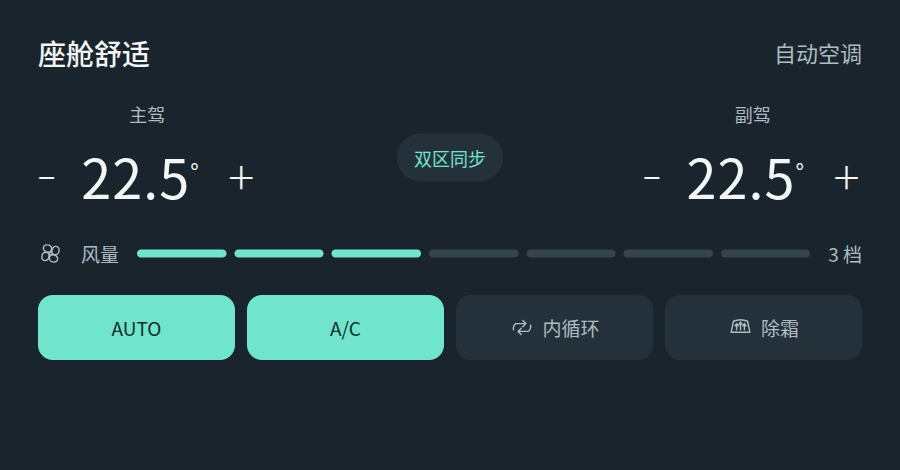
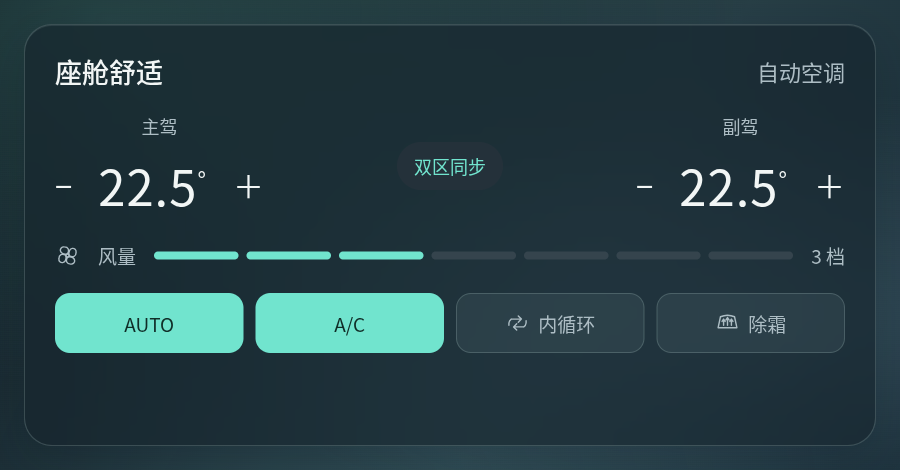
design: revise to glass cards and compact music dock without sidebar

diff --git a/design/study.js b/design/study.js
@@ -1,7 +1,6 @@
 /* Presentational design boards only. There are no vehicle or application integrations. */
 const icon = (name, cls = '') => `<svg class="icon ${cls}" aria-hidden="true"><use href="#${name}"/></svg>`;
 const params = new URLSearchParams(location.search);
-let selectedStyle = ['calm','warm','ice'].includes(params.get('style')) ? params.get('style') : 'calm';
 const art = `<svg viewBox="0 0 142 142" aria-hidden="true"><rect width="142" height="142" fill="#d3bd97"/><circle cx="108" cy="36" r="26" fill="#f6d59b"/><path d="M-10 88Q43 42 93 81T165 77V142H0" fill="#607f89"/><path d="M-10 105Q33 66 80 107T165 95V142H0" fill="#1f4a5d"/><path d="M-10 135Q55 92 155 132" fill="none" stroke="#d6dfd3" stroke-width="2"/><text x="12" y="24" font-family="sans-serif" font-size="10" fill="#244452" letter-spacing="2">COASTLINE</text></svg>`;
 const map = `<svg class="map" viewBox="0 0 1144 732" preserveAspectRatio="xMidYMid slice" aria-hidden="true">
   <rect class="block" x="-10" y="-10" width="1180" height="760"/>
@@ -16,39 +15,51 @@ const map = `<svg class="map" viewBox="0 0 1144 732" preserveAspectRatio="xMidYM
   <path d="m650 495 17 41-17-8-17 8Z" fill="var(--accent)"/>
 </svg>`;
 
+function dock() {
+  return `<div class="dock-lane"><div class="music-dock">
+    <div class="dock-navigation"><span class="dock-control dock-home" title="首页">${icon('home')}</span><span class="dock-apps">${icon('apps')}<span>全部应用</span></span></div>
+    <span class="dock-separator"></span>
+    <div class="dock-media"><div class="dock-track"><div class="cover">${art}</div><div class="dock-track-copy"><b>向海而行</b><p>Coastline · QQ 音乐</p></div></div><div class="dock-transport"><span class="dock-control" title="上一首">${icon('back')}</span><span class="dock-play" title="播放或暂停">${icon('pause')}</span><span class="dock-control" title="下一首">${icon('next')}</span></div></div>
+    <span class="dock-separator"></span>
+    <div class="dock-climate"><div class="dock-zone"><b>22.5<sup>°</sup></b><span>主驾</span></div><div class="dock-auto">${icon('fan')}<span>AUTO</span></div><div class="dock-zone"><b>22.5<sup>°</sup></b><span>副驾</span></div></div>
+    <span class="dock-separator"></span>
+    <div class="dock-vehicle"><span class="dock-control" title="车辆">${icon('car')}</span><span class="dock-control" title="360全景">${icon('camera')}</span></div>
+  </div></div>`;
+}
+
 function screen(theme) {
-  return `<div class="screen ${theme} ${selectedStyle}" role="img" aria-label="领克05 ${theme==='dark'?'深色':'浅色'}卡片式首页视觉稿，所有数据均为示意">
-    <div class="oem-status"><span>09:41</span><div class="status-right">${icon('bluetooth')}<span class="signal"><i></i><i></i><i></i><i></i></span><span>4G</span><span>LYNK & CO</span></div></div>
-    <div class="desktop">
-      <div class="desk-head"><div class="brand">LYNK & CO<i></i><span>05 / DRIVE</span></div><div class="greeting">${icon('cloud')}<span>24° 多云</span><i></i><span>10月24日 · 周六</span></div></div>
-      <div class="desk-content">
-        <div class="side-rail"><div class="rail-item active">${icon('home')}<span>首页</span></div><div class="rail-item">${icon('nav')}<span>导航</span></div><div class="rail-item">${icon('music')}<span>音乐</span></div><div class="rail-item">${icon('apps')}<span>应用</span></div></div>
-        <div class="nav-card">${map}<div class="direction-box"><div class="turn-icon">${icon('turn')}</div><div class="direction-copy"><b>600 米后右转</b><p>进入城市大道</p></div></div><div class="compass">N</div><div class="map-tool"><span>＋</span><span>−</span></div><div class="destination"><div><small>前往 · 城市中心</small><div class="arrival"><b>10:08 到达</b><span>27 分钟 · 12.6 公里</span></div></div><div class="dest-arrow">${icon('nav')}</div></div></div>
-        <div class="music-column"><div class="music-card"><div class="card-label"><span>正在播放</span><span class="source"><i class="source-dot"></i>QQ 音乐</span></div><div class="track"><div class="cover">${art}</div><div><b>向海而行</b><p>Coastline<br>晨间驾驶歌单</p></div></div><div class="music-progress"><div class="track-line"></div><div class="music-times"><span>00:46</span><span>04:18</span></div></div><div class="player-controls">${icon('heart')}<div class="transport">${icon('back')}<div class="pause-disc">${icon('pause')}</div>${icon('next')}</div><span class="loop">↻</span></div></div>
-        <div class="quick-card"><div class="card-label"><span>常用</span><span>···</span></div><div class="quick-items">${[['fan','空调'],['car','车辆'],['phone','电话'],['settings','设置']].map(([i,t])=>`<div class="quick-item"><span class="quick-icon">${icon(i)}</span><span>${t}</span></div>`).join('')}</div></div></div>
-      </div>
-    </div>
-    <div class="oem-bottom"><div class="oem-group"><span class="oem-item">${icon('car')}车辆</span><span class="oem-item">${icon('camera')}360°</span></div><span class="oem-divider"></span><div class="temp-inline"><span>−</span><b>22.5<sup>°</sup></b><span>＋</span></div><div class="oem-mode">${icon('fan')}<span class="mode-on">AUTO</span><span>A/C</span>${icon('recirc')}</div><div class="temp-inline"><span>−</span><b>22.5<sup>°</sup></b><span>＋</span></div><span class="oem-divider"></span><div class="oem-group">${icon('seat')}${icon('defrost')}</div></div>
+  return `<div class="screen ${theme} calm glass" role="img" aria-label="领克05 ${theme==='dark'?'深色':'浅色'}毛玻璃全宽首页与96像素音乐底栏视觉稿，所有数据均为示意">
+    <div class="oem-status"><div class="status-left"><b>09:41</b><span>LYNK & CO / 05</span></div><div class="status-right"><span class="status-weather">${icon('cloud')}24° 多云</span>${icon('bluetooth')}<span class="signal"><i></i><i></i><i></i><i></i></span><span>4G</span></div></div>
+    <div class="desktop"><div class="desk-content">
+      <div class="nav-card">${map}<div class="direction-box"><div class="turn-icon">${icon('turn')}</div><div class="direction-copy"><b>600 米后右转</b><p>进入城市大道</p></div></div><div class="compass">N</div><div class="map-tool"><span>＋</span><span>−</span></div><div class="destination"><div><small>前往 · 城市中心</small><div class="arrival"><b>10:08 到达</b><span>27 分钟 · 12.6 公里</span></div></div><div class="dest-arrow">${icon('nav')}</div></div></div>
+      <div class="music-column"><div class="music-card"><div class="card-label"><span>正在播放</span><span class="source"><i class="source-dot"></i>QQ 音乐</span></div><div class="listening"><div class="cover hero-cover">${art}</div><h3>向海而行</h3><p>Coastline · 晨间驾驶歌单</p><div class="music-progress"><div class="track-line"></div><div class="music-times"><span>00:46</span><span>04:18</span></div></div><div class="listening-note"><span>播放队列 · 12 首</span>${icon('heart')}</div></div></div>
+      <div class="quick-card"><div class="card-label"><span>常用</span><span>···</span></div><div class="quick-items">${[['nav','导航'],['fan','空调'],['phone','电话'],['settings','设置']].map(([i,t])=>`<div class="quick-item"><span class="quick-icon">${icon(i)}</span><span>${t}</span></div>`).join('')}</div></div></div>
+    </div></div>
+    ${dock()}
   </div>`;
 }
 
+function dockStudy(theme) {
+  return `<div class="screen dock-study ${theme} calm glass" role="img" aria-label="${theme==='dark'?'深色':'浅色'}96像素毛玻璃音乐底栏，包含全部应用、歌曲信息和播放控制"><span class="dock-mini-label">${theme==='dark'?'NIGHT / 深色音乐底栏':'DAY / 浅色音乐底栏'}</span>${dock()}</div>`;
+}
+
 function climate(theme) {
-  return `<div class="climate-panel screen ${theme} ${selectedStyle}" role="img" aria-label="${theme==='dark'?'深色':'浅色'}双区空调卡片视觉稿">
+  return `<div class="climate-panel screen ${theme} calm glass" role="img" aria-label="${theme==='dark'?'深色':'浅色'}双区空调毛玻璃卡片视觉稿"><div class="climate-glass">
     <div class="climate-heading"><strong>座舱舒适</strong><span>自动空调</span></div>
     <div class="climate-zones"><div class="zone"><div class="zone-label">主驾</div><div class="zone-value"><span>−</span><b>22.5<sup>°</sup></b><span>＋</span></div></div><span class="sync">双区同步</span><div class="zone"><div class="zone-label">副驾</div><div class="zone-value"><span>−</span><b>22.5<sup>°</sup></b><span>＋</span></div></div></div>
     <div class="fan-level">${icon('fan')}<span>风量</span><div class="fan-track">${Array.from({length:7},(_,i)=>`<i class="${i<3?'on':''}"></i>`).join('')}</div><span>3 档</span></div>
     <div class="climate-modes"><div class="climate-mode active">AUTO</div><div class="climate-mode active">A/C</div><div class="climate-mode">${icon('recirc')}内循环</div><div class="climate-mode">${icon('defrost')}除霜</div></div>
-  </div>`;
+  </div></div>`;
 }
 
 function resize() {
   document.querySelectorAll('.screen-wrap').forEach(el=>{el.firstElementChild.style.transform=`scale(${el.clientWidth/1920})`;});
   document.querySelectorAll('.climate-wrap').forEach(el=>{el.firstElementChild.style.transform=`scale(${el.clientWidth/900})`;});
+  document.querySelectorAll('.dock-wrap').forEach(el=>{el.firstElementChild.style.transform=`scale(${el.clientWidth/1920})`;});
 }
 function render() {
-  document.querySelectorAll('[data-style]').forEach(el=>{const chosen=el.dataset.style===selectedStyle;el.classList.toggle('chosen',chosen);el.setAttribute('aria-pressed',String(chosen));});
-  document.querySelector('.spec-grid strong').textContent=selectedStyle==='warm'?'32 px':selectedStyle==='ice'?'18 px':'28 px';
-  document.getElementById('screens').innerHTML=['dark','light'].map(theme=>`<figure class="screen-figure"><figcaption class="screen-caption"><b>${theme==='dark'?'夜航 / NIGHT':'晨光 / DAY'}</b><span>1920 × 1080 · 视觉设计稿</span></figcaption><div class="screen-wrap">${screen(theme)}</div></figure>`).join('');
+  document.getElementById('screens').innerHTML=['dark','light'].map(theme=>`<figure class="screen-figure"><figcaption class="screen-caption"><b>${theme==='dark'?'夜航 / NIGHT':'晨光 / DAY'}</b><span>V02 · 毛玻璃 / 全宽卡片 / 音乐底栏</span></figcaption><div class="screen-wrap">${screen(theme)}</div></figure>`).join('');
+  document.getElementById('dock-studies').innerHTML=['dark','light'].map(theme=>`<div class="dock-wrap">${dockStudy(theme)}</div>`).join('');
   document.getElementById('climate-studies').innerHTML=['dark','light'].map(theme=>`<figure class="climate-figure"><figcaption>${theme==='dark'?'深色空调层':'浅色空调层'}</figcaption><div class="climate-wrap">${climate(theme)}</div></figure>`).join('');
   const view=params.get('view');
   if(view==='single'||view==='component') {
@@ -56,16 +67,13 @@ function render() {
     if(view==='component')document.body.classList.add('component');
     document.getElementById('single-screen').innerHTML=view==='component'?climate(params.get('theme')==='light'?'light':'dark'):screen(params.get('theme')==='light'?'light':'dark');
   }
-  if(view==='pair')document.body.classList.add('pair');
-  if(view==='directions') {
-    document.body.classList.add('directions-view');
-    const original=selectedStyle;
-    document.getElementById('single-screen').innerHTML=`<div class="comparison-head"><span>LYNK 05 / VISUAL DIRECTIONS</span><h1>三种气质，同一套卡片秩序。</h1><p>视觉风格对比 · 所有画面均为设计示意</p></div><div class="comparison-grid">${[['calm','A · 冷灰青绿','推荐 / 克制的科技感'],['warm','B · 暖白石墨','温润 / 更柔和的座舱感'],['ice','C · 石墨冰蓝','利落 / 更鲜明的运动感']].map(([style,title,note])=>{selectedStyle=style;return `<section class="comparison-column"><h2>${title}</h2><p>${note}</p><div class="screen-wrap">${screen('dark')}</div><div class="screen-wrap">${screen('light')}</div></section>`;}).join('')}</div>`;
-    selectedStyle=original;
+  if(view==='pair'||view==='directions')document.body.classList.add('pair');
+  if(view==='dock') {
+    document.body.classList.add('dock-only');
+    document.getElementById('single-screen').innerHTML=dockStudy('dark')+dockStudy('light');
   }
   requestAnimationFrame(resize);
 }
-document.querySelectorAll('[data-style]').forEach(el=>el.addEventListener('click',()=>{selectedStyle=el.dataset.style;const url=new URL(location.href);url.searchParams.set('style',selectedStyle);history.replaceState(null,'',url);render();}));
 window.addEventListener('resize',resize);
 new ResizeObserver(resize).observe(document.querySelector('.board'));
 render();

diff --git a/design/glass.css b/design/glass.css
@@ -1,0 +1,153 @@
+/* V02 visual study. Browser filters illustrate the material, not Android 9 APIs. */
+.decisions { display: grid; grid-template-columns: repeat(3, 1fr); gap: 24px; margin: 40px 0 72px; }
+.decisions > div { padding: 22px 0; border-top: 1px solid #c3d1c9; }
+.decisions span { font-size: 12px; letter-spacing: 1px; color: #658075; }
+.decisions strong { display: block; margin: 14px 0 10px; font-size: 22px; font-weight: 500; }
+.decisions p { font-size: 13px; margin: 0; color: #657e72; }
+.screen.glass {
+  grid-template-rows: 64px 904px 112px;
+  --glass: rgba(22, 35, 43, .63);
+  --glass-strong: rgba(25, 39, 48, .80);
+  --glass-soft: rgba(179, 217, 217, .08);
+  --glass-edge: rgba(224, 255, 252, .17);
+  --glass-shine: rgba(235, 255, 251, .09);
+  --glass-shadow: rgba(0, 13, 22, .18);
+  --map-glass: rgba(20, 37, 42, .63);
+  --road: rgba(146, 187, 190, .17);
+  --road-small: rgba(146, 187, 190, .11);
+  --map-block: transparent;
+  --water: rgba(47, 125, 151, .16);
+  --park: rgba(118, 173, 132, .08);
+  --map-label: #8ca5aa;
+  background:
+    radial-gradient(ellipse at 12% 4%, rgba(84, 155, 143, .29), transparent 57%),
+    radial-gradient(ellipse at 85% 68%, rgba(121, 162, 183, .24), transparent 51%),
+    radial-gradient(ellipse at 35% 115%, rgba(93, 151, 160, .17), transparent 65%),
+    linear-gradient(122deg, #0e1920, #273e46 63%, #172a34);
+}
+.screen.glass.light {
+  --glass: rgba(255, 255, 255, .55);
+  --glass-strong: rgba(250, 255, 253, .80);
+  --glass-soft: rgba(255, 255, 255, .36);
+  --glass-edge: rgba(255, 255, 255, .76);
+  --glass-shine: rgba(255, 255, 255, .70);
+  --glass-shadow: rgba(54, 84, 87, .10);
+  --map-glass: rgba(234, 244, 239, .44);
+  --road: rgba(255, 255, 255, .84);
+  --road-small: rgba(255, 255, 255, .58);
+  --water: rgba(119, 180, 200, .20);
+  --park: rgba(172, 204, 167, .28);
+  --map-label: #6b8780;
+  background:
+    radial-gradient(ellipse at 8% 18%, rgba(176, 213, 198, .63), transparent 57%),
+    radial-gradient(ellipse at 86% 56%, rgba(159, 192, 213, .54), transparent 55%),
+    radial-gradient(ellipse at 36% 116%, rgba(235, 220, 188, .47), transparent 65%),
+    linear-gradient(125deg, #e1ece7, #d4e1e0 57%, #e9eef0);
+}
+.glass .oem-status { background: transparent; color: var(--text); padding: 0 40px; }
+.glass .status-right { color: var(--muted); }
+.status-left { display: flex; align-items: center; gap: 30px; }
+.status-left b { font-size: 23px; font-weight: 500; }
+.status-left > span { font-size: 18px; letter-spacing: 2px; color: var(--muted); }
+.status-weather { display: flex; align-items: center; gap: 10px; margin-right: 22px; }
+.status-weather .icon { width: 24px; height: 24px; }
+.glass .desktop { display: block; padding: 16px 32px 24px; min-height: 0; }
+.glass .desk-content { height: 100%; grid-template-columns: minmax(0, 1fr) 520px; }
+.glass .nav-card, .glass .music-card, .glass .quick-card,
+.glass .music-dock, .glass .direction-box, .glass .destination,
+.glass .map-tool, .glass .climate-glass {
+  background-color: var(--glass);
+  border: 1px solid var(--glass-edge);
+  box-shadow: inset 0 1px 0 var(--glass-shine), 0 16px 44px var(--glass-shadow);
+  backdrop-filter: blur(28px) saturate(115%);
+  -webkit-backdrop-filter: blur(28px) saturate(115%);
+}
+.glass .nav-card { background-color: var(--map-glass); }
+.glass .direction-box, .glass .destination { background-color: var(--glass-strong); }
+.glass .direction-box { left: 28px; top: 28px; }
+.glass .direction-copy b { font-size: 38px; }
+.glass .destination { left: 28px; right: 28px; bottom: 28px; }
+.glass .map-tool { bottom: 176px; }
+.glass .music-column { grid-template-rows: minmax(0, 1fr) 240px; }
+.glass .music-card { padding: 30px; overflow: hidden; position: relative; }
+.glass .music-card::before {
+  content: ""; position: absolute; width: 360px; height: 290px; right: -70px; top: 52px;
+  background: radial-gradient(ellipse, rgba(172, 203, 192, .12), transparent 68%);
+  pointer-events: none;
+}
+.listening { text-align: center; margin-top: 26px; position: relative; }
+.listening .hero-cover { width: 236px; height: 236px; border-radius: 26px; margin: 0 auto 22px; box-shadow: 0 18px 40px rgba(5, 29, 39, .18); }
+.listening h3 { font-size: 36px; font-weight: 500; letter-spacing: 1px; margin: 0 0 10px; }
+.listening p { font-size: 22px; color: var(--muted); margin: 0; }
+.listening .music-progress { margin: 25px 12px 0; }
+.glass .track-line::before { left: 0; top: 0; }
+.listening-note { display: flex; justify-content: space-between; align-items: center; color: var(--muted); margin: 18px 12px 0; font-size: 18px; }
+.listening-note .icon { width: 26px; height: 26px; }
+.glass .quick-card { padding: 30px; }
+.glass .quick-items { margin-top: 27px; }
+.glass .quick-icon { background: var(--glass-soft); border: 1px solid var(--glass-edge); }
+.glass .quick-item { font-size: 20px; }
+
+/* Shared compact Dock: the only playback transport controls on the home study. */
+.dock-lane { min-height: 0; padding: 0 32px 16px; }
+.music-dock {
+  height: 96px; border-radius: 28px; padding: 12px 20px;
+  display: grid; grid-template-columns: 238px 1px minmax(0, 1fr) 1px 352px 1px 132px;
+  align-items: center; gap: 22px;
+}
+.dock-separator { width: 1px; height: 34px; background: var(--glass-edge); }
+.dock-navigation { display: flex; align-items: center; gap: 14px; }
+.dock-control { display: flex; align-items: center; justify-content: center; width: 64px; height: 64px; border-radius: 18px; color: var(--text); flex: none; }
+.dock-control .icon { width: 29px; height: 29px; }
+.dock-home { color: var(--accent); background: var(--glass-soft); }
+.dock-apps { display: flex; align-items: center; justify-content: center; gap: 12px; height: 64px; width: 152px; font-size: 21px; white-space: nowrap; }
+.dock-apps .icon { width: 29px; height: 29px; }
+.dock-media { display: flex; align-items: center; justify-content: space-between; gap: 22px; min-width: 0; }
+.dock-track { display: flex; align-items: center; gap: 16px; min-width: 0; }
+.dock-track .cover { width: 60px; height: 60px; border-radius: 14px; }
+.dock-track-copy { min-width: 0; }
+.dock-track-copy b { display: block; font-size: 24px; font-weight: 500; white-space: nowrap; overflow: hidden; text-overflow: ellipsis; }
+.dock-track-copy p { font-size: 17px; color: var(--muted); margin: 6px 0 0; white-space: nowrap; overflow: hidden; text-overflow: ellipsis; }
+.dock-transport { display: flex; align-items: center; gap: 8px; flex: none; }
+.dock-transport .dock-control { width: 60px; height: 64px; }
+.dock-play { color: var(--accent-text); background: var(--accent); width: 58px; height: 58px; border-radius: 19px; display: flex; align-items: center; justify-content: center; }
+.dock-play .icon { width: 30px; height: 30px; stroke-width: 3; }
+.dock-climate { display: flex; align-items: center; justify-content: space-between; gap: 14px; }
+.dock-zone { text-align: center; min-width: 84px; }
+.dock-zone b { font-size: 32px; font-weight: 400; letter-spacing: .2px; }
+.dock-zone sup { font-size: 17px; }
+.dock-zone span { display: block; font-size: 14px; color: var(--muted); margin-top: 2px; }
+.dock-auto { display: flex; align-items: center; gap: 10px; font-size: 18px; color: var(--accent); }
+.dock-auto .icon { width: 26px; height: 26px; }
+.dock-vehicle { display: flex; align-items: center; gap: 2px; }
+.dock-vehicle .icon { width: 30px; height: 30px; }
+.dock-section { margin-top: 76px; }
+.dock-studies { display: grid; gap: 22px; }
+.dock-wrap { aspect-ratio: 1920 / 160; overflow: hidden; position: relative; border-radius: 16px; }
+.screen.dock-study { display: block; height: 160px; padding-top: 28px; }
+.dock-study > .dock-lane { height: 112px; }
+.dock-mini-label { position: absolute; top: 9px; left: 50px; color: var(--muted); font-size: 13px; letter-spacing: 2px; }
+body.dock-only .board { display: none; }
+body.dock-only #single-screen { display: block; width: 1920px; height: 320px; }
+body.dock-only #single-screen > .screen { position: relative; }
+
+/* The surrounding background is included so transparency can be reviewed. */
+.glass.climate-panel.screen { display: block; padding: 24px; }
+.climate-glass { border-radius: 28px; padding: 26px 30px; height: 100%; }
+.glass .climate-zones { margin: 22px 0; }
+.glass .climate-heading strong { font-size: 27px; }
+.glass .zone-value b { font-size: 49px; }
+.glass .fan-level { margin: 18px 0 24px; }
+.glass .climate-mode { height: 60px; background: var(--glass-soft); border: 1px solid var(--glass-edge); }
+.glass .climate-mode.active { background: var(--accent); border-color: transparent; }
+body.pair .dock-section, body.pair .decisions { display: none; }
+@media(max-width:850px) {
+  .decisions { gap: 16px; margin: 28px 0 44px; }
+  .decisions strong { font-size: 17px; }
+  .decisions p { font-size: 11px; line-height: 1.7; }
+}
+@media(max-width:520px) {
+  .decisions { grid-template-columns: 1fr; gap: 0; }
+  .decisions > div { padding: 16px 0; }
+  .dock-section { margin-top: 48px; }
+}

diff --git a/design/index.html b/design/index.html
@@ -3,8 +3,9 @@
 <head>
   <meta charset="utf-8">
   <meta name="viewport" content="width=device-width, initial-scale=1">
-  <title>LYNK 05 · 卡片桌面视觉提案</title>
+  <title>LYNK 05 · 毛玻璃桌面视觉提案 V02</title>
   <link rel="stylesheet" href="styles.css">
+  <link rel="stylesheet" href="glass.css">
 </head>
 <body>
   <svg class="symbols" xmlns="http://www.w3.org/2000/svg" aria-hidden="true"><defs>
@@ -30,26 +31,30 @@
   </defs></svg>
   <main class="board">
     <header class="editorial">
-      <div class="eyebrow">LYNK 05 / VISUAL STUDY 01</div>
-      <div class="intro-row"><div><h1>一张更安静的车机桌面。</h1><p>现代简约 · 模块卡片 · 深浅双主题</p></div><span class="stage">视觉提案 / 示例数据</span></div>
+      <div class="eyebrow">LYNK 05 / VISUAL STUDY 02</div>
+      <div class="intro-row"><div><h1>视野展开，轻盈常在。</h1><p>冷灰青绿 · 半透明毛玻璃 · 全宽卡片</p></div><span class="stage">样式修订 / 示例数据</span></div>
     </header>
-    <section class="directions" aria-label="三个视觉方向">
-      <button type="button" class="direction chosen" data-style="calm" aria-pressed="true"><span class="direction-id">A / 推荐</span><strong>冷灰 · 青绿</strong><span>清晰的留白，柔和的科技感</span><i class="swatches"><b style="background:#10161d"></b><b style="background:#26323a"></b><b style="background:#71e4ce"></b><b style="background:#f3f5f4"></b></i></button>
-      <button type="button" class="direction" data-style="warm" aria-pressed="false"><span class="direction-id">B</span><strong>暖白 · 石墨</strong><span>温润的卡片，更偏家居与舒适</span><i class="swatches"><b style="background:#1d1b19"></b><b style="background:#38332d"></b><b style="background:#d8a776"></b><b style="background:#f3efe8"></b></i></button>
-      <button type="button" class="direction" data-style="ice" aria-pressed="false"><span class="direction-id">C</span><strong>石墨 · 冰蓝</strong><span>利落的边界，更鲜明的运动科技</span><i class="swatches"><b style="background:#0d131e"></b><b style="background:#202e43"></b><b style="background:#88bfff"></b><b style="background:#eff3f8"></b></i></button>
+    <section class="decisions" aria-label="本轮已采用的设计调整">
+      <div><span>01 / 配色</span><strong>沿用 A · 冷灰青绿</strong><p>半透明表面，细腻磨砂层次</p></div>
+      <div><span>02 / 布局</span><strong>全宽内容区域</strong><p>常用入口与全部应用集中到底部</p></div>
+      <div><span>03 / 底栏</span><strong>96 px · 音乐 Dock</strong><p>比初版矮 25%，保留音乐与空调入口</p></div>
     </section>
     <section class="proposal">
-      <div class="section-title"><div><span class="eyebrow">01 / HOME</span><h2>卡片有主次，常用始终在手边。</h2></div><p>大导航卡 + 音乐卡 + 常用卡<br>底部为原车常驻区域示意</p></div>
+      <div class="section-title"><div><span class="eyebrow">01 / HOME</span><h2>把空间交还给导航。</h2></div><p>无侧边栏 · 半透明卡片 · 音乐底栏<br>统一底栏为概念，原车栏可调整性待实车确认</p></div>
       <div class="screens" id="screens"></div>
     </section>
+    <section class="dock-section">
+      <div class="section-title"><div><span class="eyebrow">02 / MUSIC DOCK</span><h2>一条底栏，应用与音乐随手可达。</h2></div><p>封面 / 歌名 / 上一首 / 播放暂停 / 下一首<br>点音乐区域展开，点温度进入完整空调层</p></div>
+      <div class="dock-studies" id="dock-studies"></div>
+    </section>
     <section class="component-section">
-      <div class="section-title"><div><span class="eyebrow">02 / COMPONENTS</span><h2>统一的圆角、间距与操作语言。</h2></div><p>空调展开层的视觉方向<br>仅作界面设计，未连接车机</p></div>
+      <div class="section-title"><div><span class="eyebrow">03 / COMPONENTS</span><h2>磨砂表面，清楚的操作层级。</h2></div><p>空调展开层的视觉方向<br>仅作界面设计，未连接车机</p></div>
       <div id="climate-studies" class="climate-studies"></div>
-      <div class="spec-grid"><div><strong>28 px</strong><span>主要卡片圆角</span></div><div><strong>24 px</strong><span>卡片间距</span></div><div><strong>3 级</strong><span>主要信息层次</span></div><div><strong>1 种</strong><span>核心强调色</span></div></div>
+      <div class="spec-grid"><div><strong>28 px</strong><span>主要卡片圆角</span></div><div><strong>24 px</strong><span>卡片间距</span></div><div><strong>96 px</strong><span>底栏设计高度</span></div><div><strong>1 种</strong><span>核心强调色</span></div></div>
       <p class="design-note">以上为 1920 × 1080 视觉画板标注，触控尺寸和窗口边界后续按车机实际密度校准。</p>
     </section>
     <section class="reference-section">
-      <div class="section-title"><div><span class="eyebrow">03 / REFERENCES</span><h2>参考的是秩序与层级。</h2></div><p>作者作品仅作风格研究<br>本提案的卡片、图标与地图示意为原创</p></div>
+      <div class="section-title"><div><span class="eyebrow">04 / REFERENCES</span><h2>参考的是秩序与层级。</h2></div><p>作者作品仅作风格研究<br>本提案的卡片、图标与地图示意为原创</p></div>
       <div class="references">
         <figure><img src="reference-images/piqo.img" alt="Piqo Studio 的深浅色车机概念参考"><figcaption><a href="https://dribbble.com/shots/18302473-Car-Dashboard-UI-Design" target="_blank" rel="noreferrer">Car Dashboard UI Design ↗</a><span>uixamjad / Piqo Studio · 深浅主题与内容分组</span></figcaption></figure>
         <figure><img src="reference-images/marcato.img" alt="Marcato Studio 的深色模块卡片参考"><figcaption><a href="https://dribbble.com/shots/24695936-Car-Infotainment-Systems" target="_blank" rel="noreferrer">Car Infotainment Systems ↗</a><span>Dannniel / Marcato Studio · 模块化卡片与少量强调</span></figcaption></figure>
@@ -57,7 +62,7 @@
         <figure><img src="reference-images/polestar.img" alt="Andrey Shchapov 的 Polestar HMI 概念参考"><figcaption><a href="https://www.andrey-design.com/work2/work2.html" target="_blank" rel="noreferrer">Automotive HMI Redesign ↗</a><span>Andrey Shchapov · 简约图标与边缘常用入口</span></figcaption></figure>
       </div>
     </section>
-    <footer class="board-footer">LYNK 05 · 原创视觉方向提案 · 2026.10.24 <span>样式评审阶段</span></footer>
+    <footer class="board-footer">LYNK 05 · 毛玻璃卡片提案 V02 · 2026.10.24 <span>样式评审阶段</span></footer>
   </main>
   <div id="single-screen"></div>
   <script src="study.js"></script>

diff --git a/design/VISUAL_DIRECTION.md b/design/VISUAL_DIRECTION.md
@@ -1,24 +1,34 @@
-# 卡片式桌面：视觉方向 01
+# 卡片式桌面：毛玻璃修订 V02
 
-用户偏好：现代、简约、卡片式、深浅主题。当前以风格与样式为交付，后续再实施 Android 功能。所有地图、歌曲、温度与日期均为示意数据，图中图标、封面插画与地图几何为本提案原创。
+用户已接受 A 的冷灰青绿配色，要求取消左侧栏、底栏更矮、全部应用移到底栏，并采用半透明毛玻璃。本轮调整视觉稿与设计规范，后续再实施 Android 功能。所有地图、歌曲、温度与日期均为示意数据，图中图标、封面插画与地图几何为本提案原创。
 
-## 推荐 A：冷灰底色，青绿强调
+## 已采用：A 的配色与毛玻璃材质
 
-整体以低饱和冷灰作为底色，导航与音乐形成大小有别的卡片，圆角 28 设计像素、间距 24。深色采用石墨灰卡片，浅色采用略带灰绿的底色与白色卡片；导航路径、播放键和选中状态使用少量青绿色。浅色强调色更深，保证文字和细线清楚。
+整体沿用低饱和冷灰和青绿强调。导航与音乐形成大小有别的卡片，圆角 28 设计像素、间距 24。深色为烟灰玻璃，浅色为乳白玻璃；用透出的青灰背景、细亮边缘和柔和阴影建立层次。转向提示、歌曲和温度保持清楚，不随透明度一起变淡。
 
-首页固定为“左侧少量入口 + 大导航卡 + 右侧音乐卡/常用卡”。导航约占内容区三分之二，右侧用完整的封面、歌名与三键控制组成音乐卡，下方保留四个常用入口。双区空调和车辆入口放在原车常驻区域的示意位置，空调展开层使用同一套卡片语言。
+首页取消侧边栏和额外的大品牌标题行，内容区从屏幕左边缘内缩 32px 后直接开始。导航约占 71%，右侧为歌曲展示卡和常用卡；封面、歌曲、歌单和进度位于大卡，上一首/播放暂停/下一首集中到底栏。
 
-科技感主要通过秩序、字重、间距和精确的色彩建立。卡片使用实体表面、轻层次区分，弱化装饰性边框。主卡片采用统一圆角，按钮圆角稍小，播放按钮作为唯一高强调操作。
+玻璃以半透明有色表面、背景模糊、饱和度微调和细轮廓表现。当前浏览器视觉稿使用 28px 背景模糊和约 55%–63% 的玻璃底色不透明度；转向与到达信息使用更高不透明度。这里是样式标注，不代表 Android 9 的可直接调用参数。
 
-## 三个方向的区别
+## 96px 音乐底栏
 
-| 方向 | 配色与圆角 | 气质 | 本次判断 |
-| --- | --- | --- | --- |
-| A · 冷灰青绿 | 冷灰、白、低饱和青绿；28px | 清楚、安静、现代科技 | 推荐，兼顾领克的年轻感与日常耐看 |
-| B · 暖白石墨 | 暖米白、茶灰、砂金；32px | 温润、舒适、偏生活感 | 适合偏好柔和座舱的方向 |
-| C · 石墨冰蓝 | 蓝灰、白、冰蓝；18px | 利落、克制、偏运动感 | 可选，更强调几何与对比 |
+底栏可见高度从 V01 的 128px 调整到 96px，减少 25%；距屏幕左右边缘 32px、底边 16px。以上为 1920×1080 画板像素，实际尺寸要按车机 density、窗口和触控舒适度校准。
 
-三种方向使用同样布局，以便比较配色和形状，而不是被不同功能布局干扰。每个方向都包含浅色与深色。当前样式选择尚未由用户确认。
+| 区域 | 展示与交互规划 |
+| --- | --- |
+| 左侧 | 首页、全部应用；点全部应用打开应用抽屉 |
+| 中部 | 封面、歌名、歌手/音源，以及上一首、播放/暂停、下一首；点歌曲区域展开音乐详情 |
+| 右侧 | 主副驾温度、AUTO/风量入口、车辆与 360；点温度进入完整空调层 |
+
+底栏与音乐大卡共用同一媒体状态。大卡负责丰富信息，播放控制在底栏保持固定位置。图中只呈现样式，以上动作尚未接入真实应用。V01 的三个方向对比保留在 `style-comparison.png`，供历史参考。
+
+## 可行性边界
+
+自定义底栏可加入音乐信息和控制。嘟嘟样本已存在媒体会话读取路径；Android 的 [MediaSessionManager](https://developer.android.com/reference/android/media/session/MediaSessionManager) 与 [TransportControls](https://developer.android.com/reference/android/media/session/MediaController.TransportControls) 提供状态与操作契约，具体音源和权限须上车核对。桌面内部及其内嵌导航可共用该底栏；独立应用全屏后的全局常驻需要额外系统窗口协作，当前尚未验证。
+
+缩矮“新桌面的底栏”与缩矮“原车现有底栏”是两个层级。原车栏所有者、高度与可隐藏性还未确认，不能承诺安装 Launcher 就能替换或缩矮它。V02 是统一底栏的目标设计，不表示已获得额外可用屏幕面积。
+
+Android 官方跨窗口模糊公共接口从 Android 12 提供，见 [Window blurs](https://source.android.com/docs/core/display/window-blurs)。这台 Android 9 车机后续先考虑缓存的模糊背景与局部合成实现桌面内的毛玻璃观感，动态跨应用模糊需另行验证性能与支持度。当前没有修改系统栏、接入音源或运行车机端代码。
 
 ## 第三方参考与吸收点
 
@@ -33,10 +43,11 @@ Pinterest 页面提供了原作者线索，已追溯到 Ran Mingwei 的 Behance 
 
 ## 样式资源
 
-- `index.html`：样式评审板；顶部按钮只切换 A/B/C 视觉方向。
-- `home-dark.png`、`home-light.png`：推荐方向 1920×1080 首页稿。
-- `style-comparison.png`：三个方向的深浅对比。
-- `climate-dark.png`、`climate-light.png`：双区空调层样式。
-- `styles.css`、`study.js`：可编辑的设计呈现源文件；未实现应用业务。
+- `index.html`：当前 V02 样式评审板，A 的深浅毛玻璃、全宽首页、音乐底栏与空调样式。
+- `home-dark.png`、`home-light.png`、`home-pair.png`：V02 首页稿与深浅对照。
+- `dock-detail.png`：新版深浅色音乐底栏细节。
+- `style-comparison.png`：V01 三个方向的历史对比。
+- `climate-dark.png`、`climate-light.png`：毛玻璃双区空调层样式。
+- `styles.css`、`glass.css`、`study.js`：可编辑的设计呈现源文件；未实现应用业务。
 
-底部常驻区和顶部状态区在图中为占位示意。其外观/位置可独立于 Launcher，后续接入前核实实际窗口，优先保留原车功能与操作习惯。风格确认之后再细化应用抽屉、车辆页、卡片展开和真实接口状态。
+顶部状态区和底部统一栏均为目标样式示意，后续接入前核实实际窗口与车辆功能，保持原车入口可达。

diff --git a/README.md b/README.md
@@ -5,8 +5,9 @@
 - [APK 能力分析](docs/APK_ANALYSIS.md)：系统身份、Widget、ECARX 车辆接口、导航、媒体、界面结构与证据边界。
 - [产品与界面设计](docs/PRODUCT_DESIGN.md)：布局、主题、组件、操作和异常状态。
 - [接入与实施计划](docs/INTEGRATION_PLAN.md)：适配器、数据契约、分期任务、实车验证。
-- [视觉方向说明](design/VISUAL_DIRECTION.md)：设计参考、三个方向、推荐样式。
-- [样式评审板](design/index.html)：切换三种配色方向，查看深浅色首页和空调样式；控件为视觉示意。
+- [视觉方向说明](design/VISUAL_DIRECTION.md)：当前 V02：A 配色、全宽毛玻璃卡片、96px 音乐底栏与实现边界。
+- [样式评审板](design/index.html)：查看当前深浅色首页、音乐底栏与空调样式；控件为视觉示意。
+- [深浅色对照](design/home-pair.png)、[深色首页](design/home-dark.png)、[浅色首页](design/home-light.png)、[音乐底栏细节](design/dock-detail.png)。
 - [证据索引](analysis/evidence.json)、[APK 清单](analysis/inventory.json)。
 
 ## 查看设计
@@ -17,7 +18,7 @@
 python3 -m http.server 8765 --bind 127.0.0.1 --directory design
 ```
 
-访问 `http://127.0.0.1:8765`。所有车辆、地图、媒体数据均为示例，不连接车辆、不加载地图服务。页面上的选择按钮只切换样式方案。底部常驻区为示意，真实归属与可用窗口须实车核对。参考图保留于本地忽略目录 `design/reference-images/`，作者和公开来源记录在 `design/references.json`；原创样式源文件及导出 PNG 纳入 Git。
+访问 `http://127.0.0.1:8765`。所有车辆、地图、媒体数据均为示例，不连接车辆、不加载地图服务。V02 使用用户已接受的 A 配色，移除侧栏，并以半透明毛玻璃呈现更矮的统一音乐底栏。原车栏归属、可调整高度与可用窗口须实车核对。参考图保留于本地忽略目录 `design/reference-images/`，作者和公开来源记录在 `design/references.json`；原创样式源文件及导出 PNG 纳入 Git。
 
 ## 复现静态分析
 
